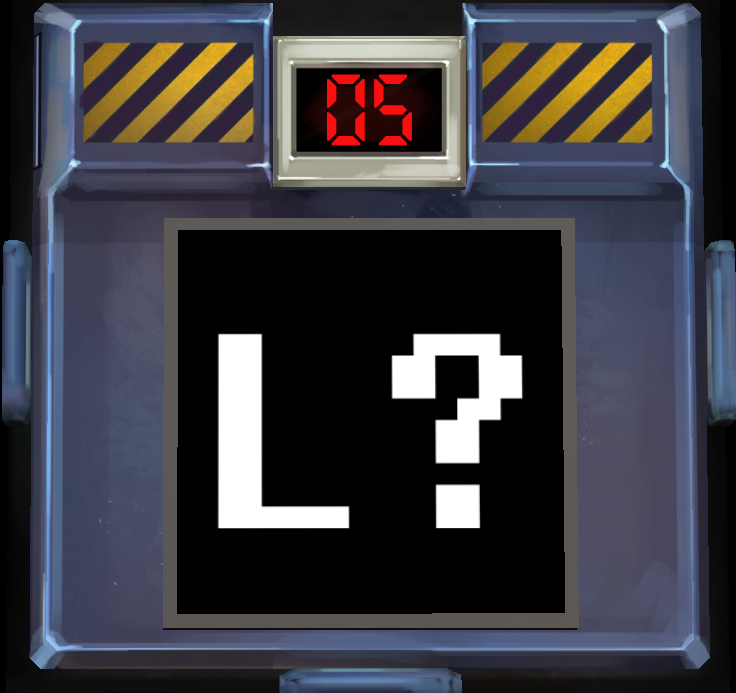
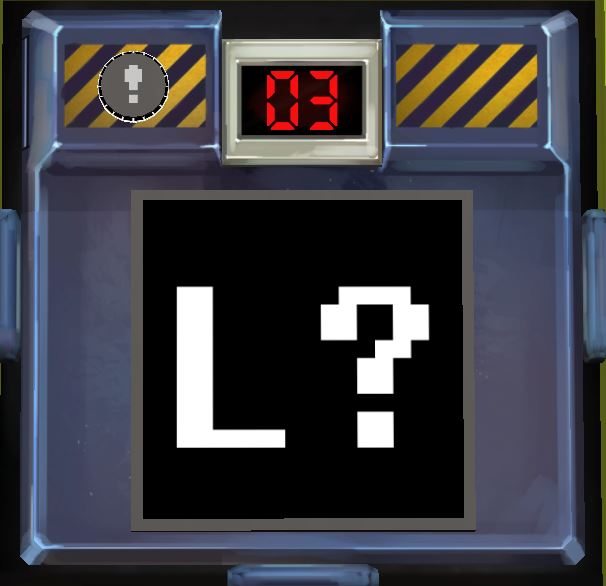
v1.2
fixed striking on solve bug

diff --git a/Assets/NextLetterGame.cs b/Assets/NextLetterGame.cs
@@ -72,6 +72,9 @@ public class NextLetterGame : MonoBehaviour {
    protected void OnNeedyDeactivation () { //blah blah blah
       if(!isActive) return; //failsafe
 
+      //dont strike when bomb is solved
+      if(Bomb.GetSolvableModuleNames().Count == Bomb.GetSolvedModuleNames().Count) return;
+
       if(Alphabet[(CallIndex+1) % 26] != Response){
          Needy.HandleStrike();
          Debug.LogFormat("[Next Letter Game #{0}] Answered {1}, Wrong! Answer should have been {2}.", ModuleId, Response, Alphabet[(CallIndex+1) % 26]);
@@ -94,22 +97,17 @@ public class NextLetterGame : MonoBehaviour {
    }
 
    void Update () { //Shit that happens at any point after initialization
-
       if(!isFocused || !isActive){
          return;
       }
-
-      //younked from ciphers
+      //yoinked from ciphers
       for (int ltr = 0; ltr < 26; ltr++){
 			if (Input.GetKeyDown(((char)('a' + ltr)).ToString())){
             Response = Alphabet[ltr];
             break;
          }
       }
-
-      Display.text = Call + "" + Response;
-
-   
+      Display.text = Call + "" + Response;   
    }
 
 #pragma warning disable 414
